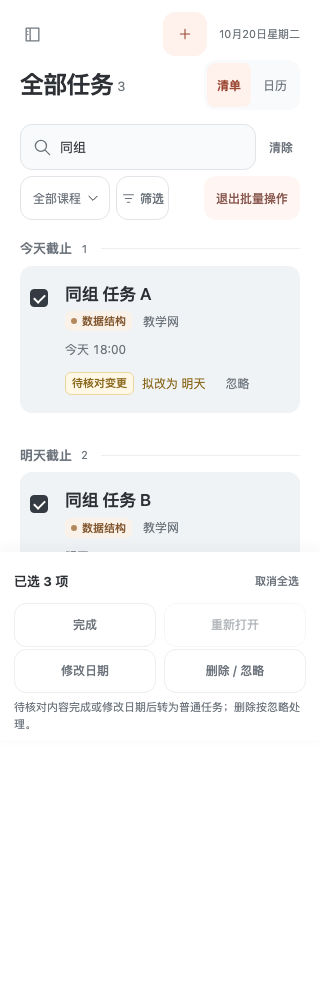
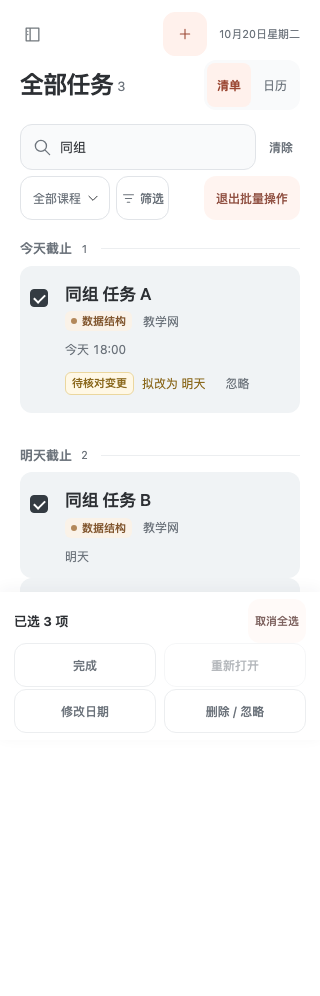
fix: overlay task filters and remove bulk selection hint

Changed region(s): [[0.0312, 0.5602, 0.9375, 0.747], [0.2188, 0.5291, 0.2812, 0.5602]]

diff --git a/frontend/src/app.js b/frontend/src/app.js
@@ -464,7 +464,7 @@ function toolbar() {
     )
     .join(
       "",
-    )}</select>${icon("chevron")}</label><button type="button" class="btn filter-button ${ui.filterOpen || ui.source || ui.dateFrom || ui.dateTo ? "selected" : ""}" data-action="filter-toggle" aria-expanded="${ui.filterOpen}" aria-controls="advanced-filters">${icon("filter")}筛选${ui.source || ui.dateFrom || ui.dateTo ? '<span class="filter-dot"></span>' : ""}</button>${bulkToggle(bulkMode)}</div>${
+    )}</select>${icon("chevron")}</label><div class="filter-disclosure"><button type="button" class="btn filter-button ${ui.filterOpen || ui.source || ui.dateFrom || ui.dateTo ? "selected" : ""}" data-action="filter-toggle" aria-expanded="${ui.filterOpen}" aria-controls="advanced-filters">${icon("filter")}筛选${ui.source || ui.dateFrom || ui.dateTo ? '<span class="filter-dot"></span>' : ""}</button>${
     ui.filterOpen
       ? `<div id="advanced-filters" class="advanced-filters"><div class="filter-field"><label for="source-filter">来源</label><span class="filter-select"><select id="source-filter"><option value="">全部来源</option>${sources()
           .map(
@@ -481,7 +481,7 @@ function toolbar() {
           <input id="date-to" aria-label="${dateLabel}结束日期" type="date" value="${esc(ui.dateTo)}">
         </div></fieldset></div>`
       : ""
-  }`;
+  }</div>${bulkToggle(bulkMode)}</div>`;
 }
 function monthLabel() {
   const d = new Date(ui.anchor + "T12:00:00");
@@ -1164,6 +1164,10 @@ window.addEventListener("resize", hideSidebarTooltip);
 document.addEventListener("click", async (e) => {
   imports.cancelRecoveryNavigation();
   const button = e.target.closest("button");
+  if (ui.filterOpen && !e.target.closest(".filter-disclosure")) {
+    ui.filterOpen = false;
+    render();
+  }
   if (!button) return;
   if (button.dataset.errorFeedback) {
     await submitErrorFeedback(button, {
@@ -1414,6 +1418,12 @@ document.addEventListener("keydown", (e) => {
   imports.cancelRecoveryNavigation();
   if (e.key === "Escape") hideSidebarTooltip();
   const modalOpen = dialog.open || drawer.open;
+  if (e.key === "Escape" && ui.filterOpen && !modalOpen && !ui.mobileMenu) {
+    ui.filterOpen = false;
+    render();
+    document.querySelector('[data-action="filter-toggle"]')?.focus({ preventScroll: true });
+    return;
+  }
   if (e.key === "Tab" && ui.mobileMenu && !modalOpen) {
     const focusable = [
       ...document.querySelectorAll(".sidebar a,.sidebar button"),

diff --git a/frontend/src/styles.css b/frontend/src/styles.css
@@ -610,6 +610,7 @@ button .icon {
   height: 17px;
 }
 .query-toolbar {
+  position: relative;
   display: flex;
   align-items: center;
   gap: 12px;
@@ -717,20 +718,27 @@ button .icon {
   font-size: 12px;
   padding: 5px 6px;
 }
-.query-toolbar:has(+ .advanced-filters) {
-  margin-bottom: 8px;
+@media (min-width: 1100px) {
+  .filter-disclosure { position: relative; }
+  .filter-disclosure .advanced-filters { width: 35.5rem; }
 }
 .advanced-filters {
+  position: absolute;
+  z-index: 10;
+  inset-block-start: calc(100% + 6px);
+  inset-inline-end: 0;
   display: grid;
   grid-template-columns: minmax(0, 11rem) minmax(0, 21rem);
   align-items: end;
   gap: 12px 20px;
-  width: fit-content;
-  max-width: 100%;
-  margin: 0 0 20px auto;
+  width: min(35.5rem, 100%);
+  max-height: 65vh;
+  overflow-y: auto;
   padding: 12px 16px;
   border-radius: var(--radius);
-  background: var(--control-bg);
+  background: #fff;
+  border: 1px solid var(--control-border);
+  box-shadow: 0 6px 20px rgb(35 42 52 / 12%);
   color: var(--muted);
   font-size: 13px;
 }
@@ -2133,7 +2141,6 @@ dialog p {
 .bulk-selection, .bulk-actions { display: flex; align-items: center; flex-wrap: wrap; gap: 3px; min-width: 0; }
 .bulk-selection strong { font-size: 13px; margin-right: 8px; white-space: nowrap; }
 .bulk-toolbar .btn { min-height: 44px; padding: 8px; font-size: 12px; white-space: normal; }
-.bulk-hint { flex-basis: 100%; margin: 0 8px 5px; font-size: 12px; color: var(--muted); line-height: 1.6; }
 .bulk-error { flex-basis: 100%; color: #a23f35; font-size: 13px; padding: 3px 8px; overflow-wrap: anywhere; }
 .bulk-error .btn { margin-left: 8px; }
 .bulk-toolbar.is-trash { position: static; margin: 8px 0; }
@@ -2162,7 +2169,6 @@ dialog p {
   .bulk-toolbar .bulk-actions { display: grid; grid-template-columns: repeat(2, minmax(0, 1fr)); width: 100%; gap: 2px 8px; }
   .bulk-toolbar .bulk-actions .btn { border: 1px solid var(--line); }
   .bulk-toolbar.is-trash .bulk-actions { grid-template-columns: minmax(0, 1fr); }
-  .bulk-hint { margin: 5px 0 0; font-size: 11px; }
   .task-page.is-bulk-mode { padding-bottom: 220px; }
   body:has(.bulk-toolbar:not(.is-trash)) #toast { bottom: calc(220px + env(safe-area-inset-bottom)); }
   .bulk-toggle { margin-left: auto; font-size: 12px; }

diff --git a/frontend/src/task-bulk-ui.js b/frontend/src/task-bulk-ui.js
@@ -41,7 +41,7 @@ export function renderBulkToolbar({ tasks, available, selected, busy = false, bl
   const all = available.length > 0 && available.every(task => selected.has(task.id));
   const disabled = busy || blocked || !count;
   const candidates = tasks.some(task => task.reviewCandidateId);
-  return `<div class="bulk-toolbar${trash ? ' is-trash' : ''}" role="region" aria-label="批量操作" aria-busy="${busy}"><div class="bulk-selection"><strong role="status">${busy ? '正在保存' : '已选'} ${count} 项</strong>${button('select-all', all ? '取消全选' : trash ? '全选回收站' : '全选筛选结果', busy || !available.length)}</div><div class="bulk-actions">${trash ? button('restore', '恢复', disabled) : `${button('complete', labels.complete, disabled || !tasks.some(task => task.status !== 'done'))}${button('reopen', labels.reopen, disabled || candidates || !tasks.some(task => task.status === 'done'))}${button('deadline', '修改日期', disabled)}${button('trash', labels.trash, disabled)}`}</div>${candidates && !trash ? '<p class="bulk-hint">待核对内容完成或修改日期后转为普通任务；删除按忽略处理。</p>' : ''}${error ? `<div class="bulk-error" role="alert">${escapeHtml(error)}${button('retry', '重试', busy || blocked)}</div>` : ''}</div>`;
+  return `<div class="bulk-toolbar${trash ? ' is-trash' : ''}" role="region" aria-label="批量操作" aria-busy="${busy}"><div class="bulk-selection"><strong role="status">${busy ? '正在保存' : '已选'} ${count} 项</strong>${button('select-all', all ? '取消全选' : trash ? '全选回收站' : '全选筛选结果', busy || !available.length)}</div><div class="bulk-actions">${trash ? button('restore', '恢复', disabled) : `${button('complete', labels.complete, disabled || !tasks.some(task => task.status !== 'done'))}${button('reopen', labels.reopen, disabled || candidates || !tasks.some(task => task.status === 'done'))}${button('deadline', '修改日期', disabled)}${button('trash', labels.trash, disabled)}`}</div>${error ? `<div class="bulk-error" role="alert">${escapeHtml(error)}${button('retry', '重试', busy || blocked)}</div>` : ''}</div>`;
 }
 
 export function renderBulkDeadlineForm(count) {

diff --git a/frontend/tests/browser/task-bulk-actions.spec.js b/frontend/tests/browser/task-bulk-actions.spec.js
@@ -143,7 +143,11 @@ async function changeDate(page, date) {
 
 test('filter fields align and the bulk toggle stays in place', async ({ page, context }, info) => {
   await open(page, context);
-  await page.getByRole('button', { name: '筛选', exact: true }).click();
+  const toggle = page.getByRole('button', { name: '筛选', exact: true });
+  const firstRow = page.locator('.task-row').first();
+  const initialBox = await firstRow.boundingBox();
+  await toggle.click();
+  expect(await firstRow.boundingBox()).toEqual(initialBox);
   const source = page.getByLabel('来源', { exact: true });
   const from = page.getByLabel('截止日期起始日期');
   const to = page.getByLabel('截止日期结束日期');
@@ -159,6 +163,14 @@ test('filter fields align and the bulk toggle stays in place', async ({ page, co
   await expect(row(page, 'b')).toHaveCount(0);
   await page.screenshot({ path: info.outputPath('filter-range.png') });
 
+  await page.keyboard.press('Escape');
+  await expect(toggle).toBeFocused();
+  await expect(toggle).toHaveAttribute('aria-expanded', 'false');
+  await toggle.click();
+  await expect(from).toHaveValue('2026-10-20');
+  await page.locator('#task-search').click();
+  await expect(toggle).toHaveAttribute('aria-expanded', 'false');
+  await expect(row(page, 'b')).toHaveCount(0);
   const enterBox = await action(page, 'enter').boundingBox();
   await action(page, 'enter').click();
   await expect(action(page, 'exit')).toBeVisible();

diff --git a/frontend/tests/task-bulk-ui.test.js b/frontend/tests/task-bulk-ui.test.js
@@ -30,10 +30,10 @@ test('mixed notices and tasks use explicit completion and reading language', () 
   assert.equal(bulkLabels([ordinary, candidate]).trash, '删除 / 忽略');
 });
 
-test('candidate selections expose conversion semantics and cannot be reopened', () => {
+test('candidate selections can be completed but cannot be reopened', () => {
   const html = toolbar([candidate, { ...ordinary, status: 'done' }]);
   assert.match(html, /data-bulk-action="reopen"[^>]*disabled/);
-  assert.match(html, /待核对内容完成或修改日期后转为普通任务/);
+  assert.doesNotMatch(html, /待核对内容完成或修改日期后转为普通任务/);
   assert.match(html, /data-bulk-action="complete"(?![^>]*disabled)/);
 });
 

diff --git a/frontend/docs/design.md b/frontend/docs/design.md
@@ -61,7 +61,7 @@ HTTPS 和 localhost 的普通任务先在同源浏览器中按账号加密暂存
 
 通知清单优先显示未阅读通知，已阅读通知放在下方；同一阅读状态内按关键时间从早到晚排列：先比较日期，同一天按具体时刻升序，仅有日期的通知排在当天有时刻的通知之后；无有效日期的通知放在最后。相同时间按稳定 ID 排序；搜索、筛选和更新阅读状态后继续沿用此规则。排序只作用于前端展示，不改写服务端数据顺序。
 
-清单查询区常驻关键词、课程和筛选入口，来源与截止日期范围收在可展开筛选区，组合条件一起生效。切换到日历时不绘制查询及高级筛选区，也不应用清单条件，防止隐藏筛选造成日程缺漏；切回清单恢复原查询条件。完成任务或关闭详情保留查询、选中日期和浏览范围；从日历进入临近截止或已完成，再返回全部任务时，恢复原月份、日期、月周模式与视图偏好。
+清单查询区常驻关键词、课程和筛选入口，来源与截止日期范围通过浮层覆盖在清单上方，组合条件一起生效。切换到日历时不绘制查询及高级筛选区，也不应用清单条件，防止隐藏筛选造成日程缺漏；切回清单恢复原查询条件。完成任务或关闭详情保留查询、选中日期和浏览范围；从日历进入临近截止或已完成，再返回全部任务时，恢复原月份、日期、月周模式与视图偏好。
 
 任务行的完成按钮与详情按钮相互独立，不能嵌套按钮。名称是视觉主体，课程、来源与进行中状态退到辅助层；截止日期在清楚的位置显示。查看详情后可编辑任务、标记完成或删除。
 
